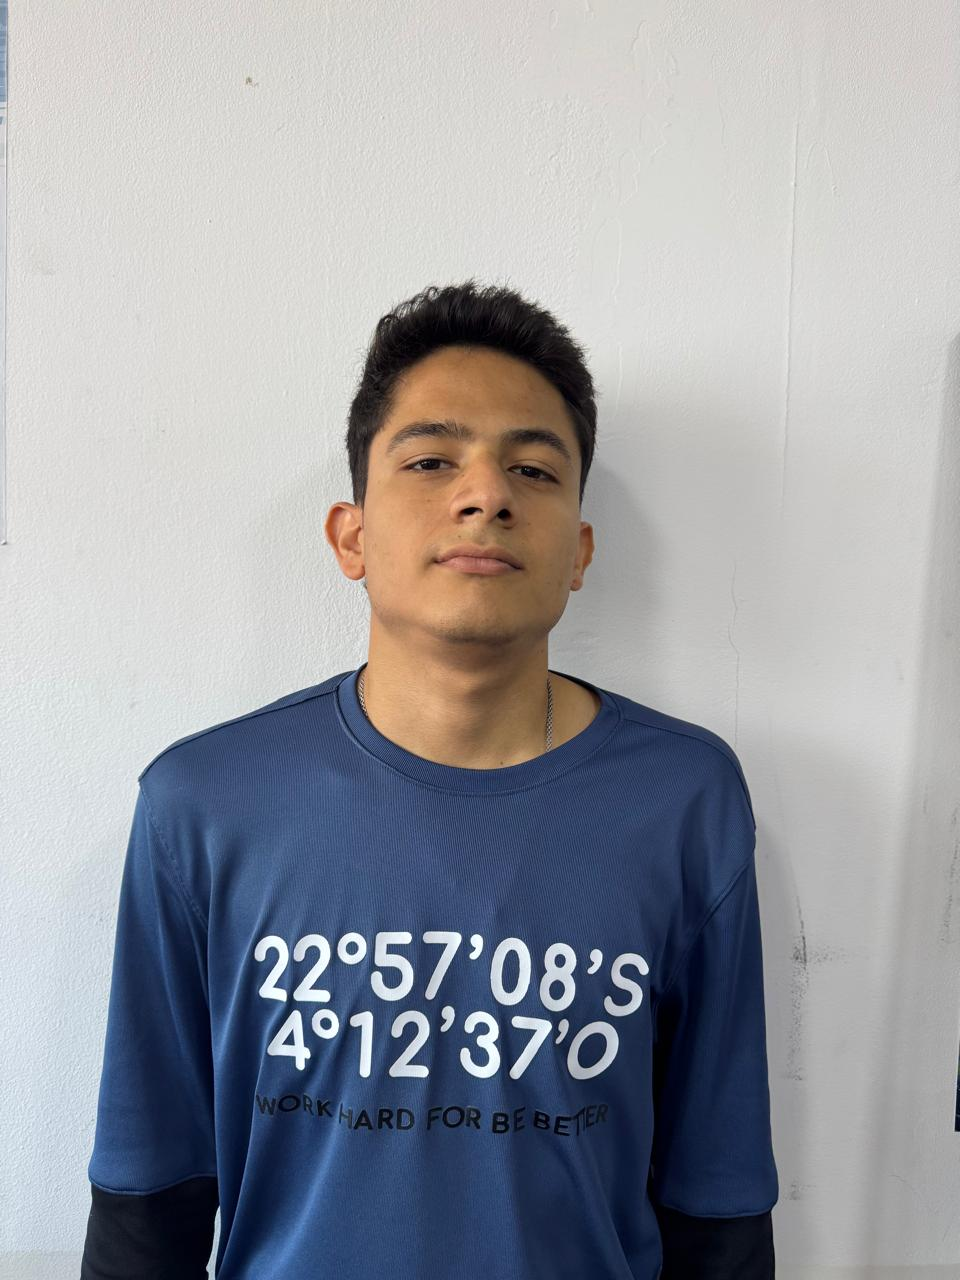
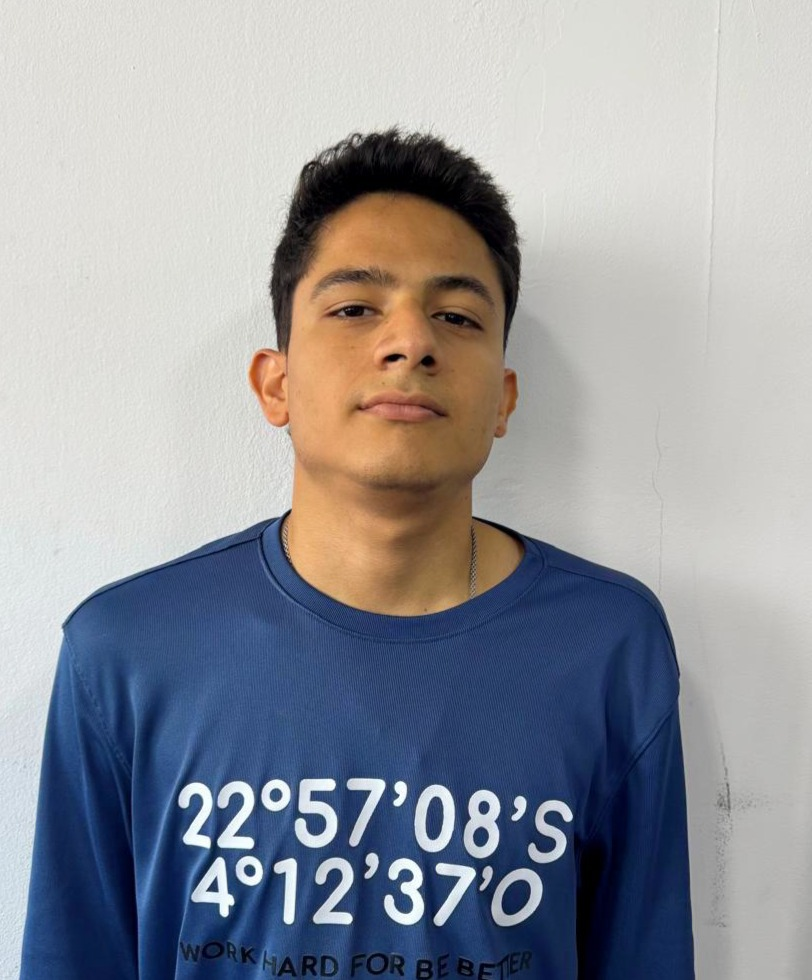
Refactor de las imágenes y nombres para mejorar la legibilidad y mantenibilidad

diff --git a/src/components/Teams/TeamLaravelVue.vue b/src/components/Teams/TeamLaravelVue.vue
@@ -79,11 +79,11 @@
                 @click="showDeveloper('nick')">
                 <div class="w-20 h-20 mx-auto mb-3 rounded-full overflow-hidden">
                 <img
-                    src="/img/fesc.png"
+                    src="@/assets/img/team_1/Nick_ortega.jpg"
                     alt="Nick Ortega"
                     class="w-full h-full object-cover object-top" />
                 </div>
-                <h3 class="font-semibold text-gray-900 dark:text-white">Nick Ortega</h3>
+                <h3 class="font-semibold text-gray-900 dark:text-white">Nick Alejandro Ortega Mendez</h3>
                 <p class="text-base text-gray-600 dark:text-gray-400">Auxiliar de Desarrollo</p>
             </div>
         </div>
@@ -149,7 +149,7 @@ const modalStore = useModalStore();
     'nick': {
         name: 'Nick Ortega',
         position: 'Auxiliar de Desarrollo',
-        photo: '/img/fesc.png',
+        photo: new URL('@/assets/img/team_1/Nick_ortega.jpg', import.meta.url).href,
         skills: ['Soporte', 'Documentación', 'QA'],
         experience: 'Auxiliar de desarrollo y QA.',
         projects: [

diff --git a/src/components/Teams/TeamNetAngular.vue b/src/components/Teams/TeamNetAngular.vue
@@ -93,9 +93,9 @@ const developerData = ref({
     },
 
     'yeison': {
-        name: 'Yeison Rolon',
+        name: 'Yeison Edward Rolon Ortiz',
         position: 'Desarrollador',
-        photo: '/img/fesc.png', // Cambiar la foto de Yeison
+        photo: new URL('@/assets/img/team_2/Yeison_edward_rolon_ortiz.jpg', import.meta.url).href,
         skills: ['.NET', 'Angular', 'SQL'],
         experience: 'Soporte y construcción de módulos de software.',
         projects: [
